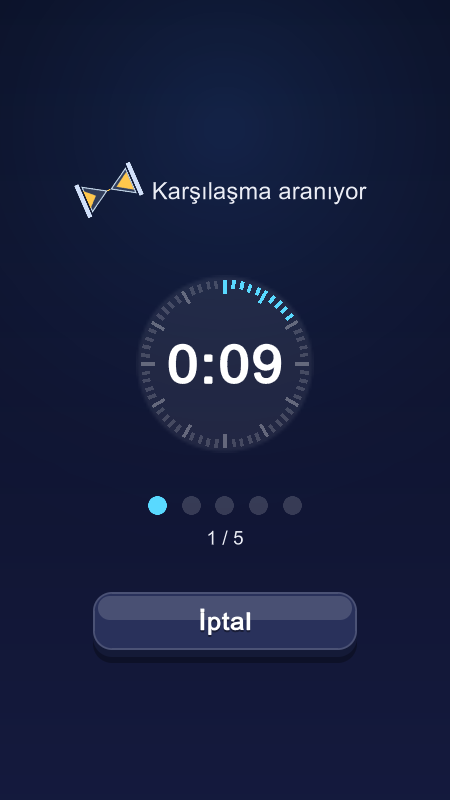
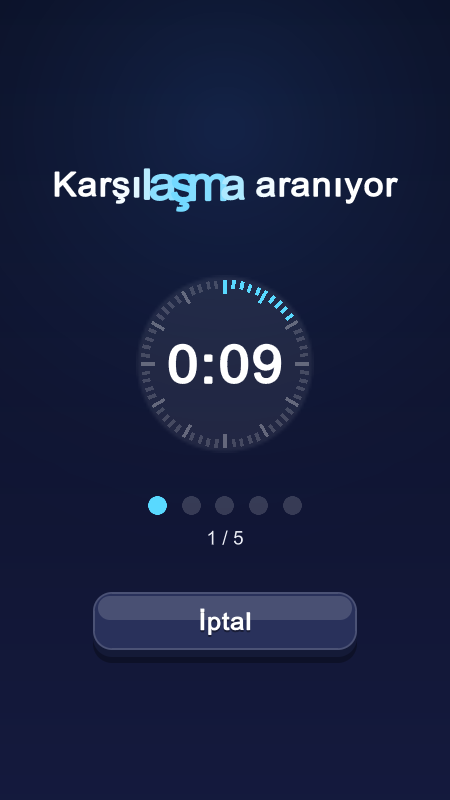
Arama basligi ortada ve dalga animasyonlu (kum saati kaldirildi), sonuc ekraninda suzulen konfeti

Changed region(s): [[0.0933, 0.1875, 0.8711, 0.2812]]

diff --git a/client/Assets/Scripts/Game/OnlineGameController.cs b/client/Assets/Scripts/Game/OnlineGameController.cs
@@ -49,7 +49,7 @@ namespace TextRun.Game
         float searchStartedAt;
         float countdownEndsLocal;
 
-        GUIStyle titleStyle, bigButton, labelStyle, centerStyle, smallStyle, smallCenterStyle, stopwatchStyle, headingStyle, rankStyle;
+        GUIStyle titleStyle, bigButton, labelStyle, centerStyle, smallStyle, smallCenterStyle, stopwatchStyle, headingStyle, rankStyle, searchTitleStyle;
 
         void Start()
         {
@@ -212,6 +212,7 @@ namespace TextRun.Game
 
                 case Phase.Finished:
                     results = s.results ?? new ResultDto[0];
+                    resultsBackdrop.Restart();
                     screen = Page.Results;
                     break;
             }
@@ -292,6 +293,7 @@ namespace TextRun.Game
             results = r.results ?? new ResultDto[0];
             view.SetRacing(false);
             endingEndsLocal = 0f;
+            resultsBackdrop.Restart(); // ekran açılınca konfeti yukarıdan süzülmeye başlar
             screen = Page.Results;
 
             bool onPodium = false;
@@ -411,6 +413,7 @@ namespace TextRun.Game
 
             headingStyle = new GUIStyle(GUI.skin.label) { fontSize = 30, fontStyle = FontStyle.Bold, alignment = TextAnchor.MiddleCenter };
             rankStyle = new GUIStyle(GUI.skin.label) { fontSize = 24, fontStyle = FontStyle.Bold, alignment = TextAnchor.MiddleCenter };
+            searchTitleStyle = new GUIStyle(GUI.skin.label) { fontSize = 28, fontStyle = FontStyle.Bold, alignment = TextAnchor.MiddleCenter, wordWrap = false, clipping = TextClipping.Overflow };
             smallCenterStyle = new GUIStyle(GUI.skin.label) { fontSize = 16, alignment = TextAnchor.MiddleCenter, wordWrap = false };
             stopwatchStyle = new GUIStyle(GUI.skin.label) { fontSize = 44, fontStyle = FontStyle.Bold, alignment = TextAnchor.MiddleCenter, wordWrap = false };
 
@@ -422,6 +425,7 @@ namespace TextRun.Game
             UiKit.SetAllTextColors(smallStyle, text);
             UiKit.SetAllTextColors(smallCenterStyle, text);
             UiKit.SetAllTextColors(stopwatchStyle, Color.white);
+            UiKit.SetAllTextColors(searchTitleStyle, Color.white);
             UiKit.SetAllTextColors(headingStyle, Color.white);
             UiKit.SetAllTextColors(rankStyle, new Color(1f, 0.88f, 0.45f));
         }
@@ -547,16 +551,8 @@ namespace TextRun.Game
             float centerX = width / 2f;
             float centerY = height / 2f - 30f;
 
-            // Başlık: dönen kum saati ve "Karşılaşma aranıyor"
-            string title = T("searching");
-            float titleWidth = centerStyle.CalcSize(new GUIContent(title)).x;
-            const float iconHeight = 54f;
-            float iconWidth = iconHeight * 64f / 96f;
-            float groupWidth = iconWidth + 14f + titleWidth;
-            float groupX = centerX - groupWidth / 2f;
-            float groupY = centerY - 172f;
-            DrawHourglass(new Rect(groupX, groupY, iconWidth, iconHeight));
-            GUI.Label(new Rect(groupX + iconWidth + 14f, groupY, titleWidth + 6f, iconHeight), title, centerStyle);
+            // Başlık: tam ortada; harfleri soldan sağa doğru sırayla büyüyüp küçülür
+            DrawWaveTitle(new Vector2(centerX, centerY - 150f), T("searching"));
 
             DrawStopwatch(new Vector2(centerX, centerY), 74f, Mathf.Max(0, (int)(Time.realtimeSinceStartup - searchStartedAt)));
 
@@ -579,20 +575,44 @@ namespace TextRun.Game
             if (UiKit.SecondaryButton(new Rect(width / 2f - 110f, centerY + 190f, 220f, 54f), T("cancel"), 20)) CancelSearch();
         }
 
-        // Kum saati: her ~1,8 sn'de bir yumuşakça 180° döner (ters çevrilir), sonra bir an durur
-        void DrawHourglass(Rect rect)
+        // Başlık harfleri soldan sağa doğru sırayla büyüyüp küçülür (dalga); büyürken hafif maviye parlar.
+        // Dalga başlığın dışından başlayıp dışında biter, böylece iki dalga arasında kısa bir sakin an olur.
+        void DrawWaveTitle(Vector2 center, string text)
         {
-            const float cycle = 1.8f;
-            float time = Time.realtimeSinceStartup;
-            int flips = (int)(time / cycle);
-            float t = Mathf.Repeat(time, cycle) / cycle;
-            float turn = Mathf.SmoothStep(0f, 1f, Mathf.Clamp01(t / 0.35f)); // döngünün ilk %35'inde döner
-            float angle = flips * 180f + turn * 180f;
+            var widths = new float[text.Length];
+            float total = 0f;
+            for (int i = 0; i < text.Length; i++)
+            {
+                widths[i] = text[i] == ' ' ? searchTitleStyle.fontSize * 0.35f : searchTitleStyle.CalcSize(new GUIContent(text[i].ToString())).x;
+                total += widths[i];
+            }
+
+            const float cycleSeconds = 2.4f;
+            float wavePosition = Mathf.Repeat(Time.realtimeSinceStartup / cycleSeconds, 1f) * (text.Length + 8f) - 4f;
 
             var oldMatrix = GUI.matrix;
-            GUIUtility.RotateAroundPivot(angle, oldMatrix.MultiplyPoint3x4(rect.center));
-            GUI.DrawTexture(rect, Pictograms.Hourglass());
+            var oldColor = GUI.color;
+            float x = center.x - total / 2f;
+
+            for (int i = 0; i < text.Length; i++)
+            {
+                if (text[i] != ' ')
+                {
+                    float distance = i - wavePosition;
+                    float bump = Mathf.Exp(-(distance * distance) / (2f * 1.8f * 1.8f)); // yumuşak çan eğrisi: 0 -> 1 -> 0
+                    float scale = 1f + 0.5f * bump;
+
+                    var rect = new Rect(x, center.y - 24f, widths[i], 48f);
+                    var pivot = rect.center;
+                    GUI.matrix = oldMatrix * Matrix4x4.Translate(pivot) * Matrix4x4.Scale(new Vector3(scale, scale, 1f)) * Matrix4x4.Translate(-pivot);
+                    GUI.color = Color.Lerp(Color.white, new Color(0.45f, 0.85f, 1f), bump);
+                    GUI.Label(rect, text[i].ToString(), searchTitleStyle);
+                }
+                x += widths[i];
+            }
+
             GUI.matrix = oldMatrix;
+            GUI.color = oldColor;
         }
 
         // Kronometre: yuvarlak zemin, çevresinde 60 saniye çizgisi (geçen saniyeler yanar) ve ortada dakika:saniye
@@ -828,6 +848,7 @@ namespace TextRun.Game
                 };
             }
             results = list;
+            resultsBackdrop.Restart();
             screen = Page.Results;
         }
 

diff --git a/client/Assets/Scripts/Game/ResultsBackdrop.cs b/client/Assets/Scripts/Game/ResultsBackdrop.cs
@@ -2,14 +2,22 @@ using UnityEngine;
 
 namespace TextRun.Game
 {
-    // Sonuç ekranının arka planı: koyu degrade, kupanın arkasında açılan ışın demeti ve ışık, süzülmeyen sabit konfetiler
-    // ve ortada büyük bir kupa. Sıraya göre kupa altın (1.), gümüş (2.), bronz (3.) ya da çelik (diğerleri) olur.
-    // Konfeti yalnızca ilk üçe girenlerde vardır. Hepsi sabittir (animasyon yok).
+    // Sonuç ekranının arka planı: koyu degrade, kupanın arkasında açılan ışın demeti ve ışık, ortada büyük bir kupa.
+    // Sıraya göre kupa altın (1.), gümüş (2.), bronz (3.) ya da çelik (diğerleri) olur.
+    // İlk üçe girenlerde ekran açılınca konfetiler yukarıdan aşağı süzülür (bir kez); hepsi ekrandan çıkınca animasyon biter.
     public class ResultsBackdrop
     {
         struct Confetti
         {
-            public float x, y, w, h, angle;
+            public float x;            // yatay başlangıç (ekran oranı)
+            public float w, h;         // boyut
+            public float delay;        // düşmeye başlama gecikmesi (sn)
+            public float speed;        // düşme hızı (arayüz birimi/sn)
+            public float swayAmount;   // yana salınım genliği
+            public float swayFrequency;
+            public float phase;
+            public float angle;        // başlangıç açısı
+            public float spin;         // dönüş hızı (derece/sn)
             public Color color;
         }
 
@@ -22,6 +30,13 @@ namespace TextRun.Game
         Texture2D gradient;
         Texture2D glow;
         Confetti[] confetti;
+        float startedAt = -999f;
+
+        // Sonuç ekranı her açıldığında çağrılır: konfeti yeniden yağmaya başlar
+        public void Restart()
+        {
+            startedAt = Time.realtimeSinceStartup;
+        }
 
         // trophyCenter: kupanın ekran konumu (arayüz birimi), trophySize: kenar uzunluğu
         public void Draw(float width, float height, Vector2 trophyCenter, float trophySize, int rank)
@@ -44,26 +59,41 @@ namespace TextRun.Game
             GUI.color = new Color(accent.r, accent.g, accent.b, 0.30f);
             GUI.DrawTexture(new Rect(trophyCenter.x - glowRadius, trophyCenter.y - glowRadius, glowRadius * 2f, glowRadius * 2f), glow);
 
-            // Konfetiler (ilk üçte)
-            if (rank <= 3)
-            {
-                var matrix = GUI.matrix;
-                foreach (var c in confetti)
-                {
-                    var rect = new Rect(c.x * width, c.y * height, c.w, c.h);
-                    GUI.color = new Color(c.color.r, c.color.g, c.color.b, 0.85f);
-                    GUIUtility.RotateAroundPivot(c.angle, matrix.MultiplyPoint3x4(rect.center)); // pivot, ölçeklenmiş koordinatta verilir
-                    GUI.DrawTexture(rect, Texture2D.whiteTexture);
-                    GUI.matrix = matrix;
-                }
-            }
-
             // Kupanın yer gölgesi ve kupa
             GUI.color = new Color(0f, 0f, 0f, 0.35f);
             GUI.DrawTexture(new Rect(trophyCenter.x - trophySize * 0.38f, trophyCenter.y + trophySize * 0.42f, trophySize * 0.76f, trophySize * 0.12f), glow);
 
             GUI.color = Color.white;
             GUI.DrawTexture(new Rect(trophyCenter.x - trophySize / 2f, trophyCenter.y - trophySize / 2f, trophySize, trophySize), Pictograms.Trophy(tint));
+            GUI.color = old;
+
+            // Süzülen konfetiler (ilk üçte), kupanın ve listenin önünde
+            if (rank <= 3) DrawConfetti(width, height);
+        }
+
+        void DrawConfetti(float width, float height)
+        {
+            float elapsed = Time.realtimeSinceStartup - startedAt;
+            var matrix = GUI.matrix;
+            var old = GUI.color;
+
+            foreach (var c in confetti)
+            {
+                float t = elapsed - c.delay;
+                if (t < 0f) continue;
+
+                float y = -24f + c.speed * t;
+                if (y > height + 24f) continue; // ekrandan çıktı
+
+                float x = c.x * width + Mathf.Sin(t * c.swayFrequency + c.phase) * c.swayAmount;
+                float fadeIn = Mathf.Clamp01(t / 0.25f);
+                var rect = new Rect(x, y, c.w, c.h);
+
+                GUI.color = new Color(c.color.r, c.color.g, c.color.b, 0.9f * fadeIn);
+                GUIUtility.RotateAroundPivot(c.angle + c.spin * t, matrix.MultiplyPoint3x4(rect.center)); // pivot, ölçeklenmiş koordinatta verilir
+                GUI.DrawTexture(rect, Texture2D.whiteTexture);
+                GUI.matrix = matrix;
+            }
             GUI.color = old;
         }
 
@@ -74,18 +104,23 @@ namespace TextRun.Game
             gradient = MakeGradient();
             glow = MakeGlow();
 
-            // Sabit tohum: konfetiler her seferinde aynı yerlerde
+            // Sabit tohum: konfetilerin düşüş düzeni her seferinde aynı
             var rng = new System.Random(11);
-            confetti = new Confetti[42];
+            confetti = new Confetti[56];
             for (int i = 0; i < confetti.Length; i++)
             {
                 confetti[i] = new Confetti
                 {
                     x = (float)rng.NextDouble(),
-                    y = (float)rng.NextDouble() * 0.55f, // üst yarıda, kupanın çevresinde
                     w = 6f + (float)rng.NextDouble() * 8f,
                     h = 3f + (float)rng.NextDouble() * 4f,
+                    delay = (float)rng.NextDouble() * 1.6f,
+                    speed = 110f + (float)rng.NextDouble() * 110f,
+                    swayAmount = 10f + (float)rng.NextDouble() * 26f,
+                    swayFrequency = 1.5f + (float)rng.NextDouble() * 2.5f,
+                    phase = (float)(rng.NextDouble() * Mathf.PI * 2.0),
                     angle = (float)(rng.NextDouble() * 180.0),
+                    spin = (float)(rng.NextDouble() * 360.0 - 180.0),
                     color = ConfettiColors[rng.Next(ConfettiColors.Length)]
                 };
             }

diff --git a/client/Assets/Scripts/Game/Pictograms.cs b/client/Assets/Scripts/Game/Pictograms.cs
@@ -3,7 +3,7 @@ using UnityEngine;
 
 namespace TextRun.Game
 {
-    // Kodla çizilen küçük resimler (dosya gerektirmez): kupa, ışın demeti ve kum saati.
+    // Kodla çizilen küçük resimler (dosya gerektirmez): kupa ve ışın demeti.
     // Şekiller basit geometri formülleriyle tanımlanır; kenarlar 3x3 örnekle yumuşatılır. Her doku bir kez üretilir.
     public static class Pictograms
     {
@@ -11,7 +11,6 @@ namespace TextRun.Game
 
         static readonly Dictionary<TrophyTint, Texture2D> trophies = new Dictionary<TrophyTint, Texture2D>();
         static Texture2D rays;
-        static Texture2D hourglass;
 
         // ---------- Kupa ----------
 
@@ -150,97 +149,6 @@ namespace TextRun.Game
             }
             rays.Apply();
             return rays;
-        }
-
-        // ---------- Kum saati ----------
-
-        // 64x96: üstte ve altta plaka, cam gövde çerçevesi, üstte ve altta kum, ortada ince kum akışı
-        public static Texture2D Hourglass()
-        {
-            if (hourglass != null) return hourglass;
-
-            const int w = 64, h = 96;
-            hourglass = new Texture2D(w, h, TextureFormat.RGBA32, false) { wrapMode = TextureWrapMode.Clamp, filterMode = FilterMode.Bilinear, hideFlags = HideFlags.HideAndDontSave };
-
-            var plate = new Color(0.82f, 0.88f, 0.98f);
-            var glass = new Color(0.85f, 0.93f, 1f);
-            var sand = new Color(1f, 0.78f, 0.30f);
-
-            for (int y = 0; y < h; y++)
-            {
-                for (int x = 0; x < w; x++)
-                {
-                    float r = 0f, g = 0f, b = 0f, a = 0f;
-                    for (int sy = 0; sy < 3; sy++)
-                    {
-                        for (int sx = 0; sx < 3; sx++)
-                        {
-                            if (HourglassColor(x + (sx + 0.5f) / 3f, y + (sy + 0.5f) / 3f, plate, glass, sand, out var c))
-                            {
-                                r += c.r * c.a; g += c.g * c.a; b += c.b * c.a; a += c.a;
-                            }
-                        }
-                    }
-                    hourglass.SetPixel(x, y, a <= 0f ? Color.clear : new Color(r / a, g / a, b / a, a / 9f));
-                }
-            }
-            hourglass.Apply();
-            return hourglass;
-        }
-
-        static readonly Vector2 UpperA = new Vector2(11f, 84f), UpperB = new Vector2(53f, 84f), UpperC = new Vector2(32f, 50f);
-        static readonly Vector2 LowerA = new Vector2(32f, 46f), LowerB = new Vector2(11f, 12f), LowerC = new Vector2(53f, 12f);
-
-        static bool HourglassColor(float x, float y, Color plate, Color glass, Color sand, out Color color)
-        {
-            color = default;
-            var p = new Vector2(x, y);
-
-            // Plakalar
-            if (InRect(x, y, 6f, 58f, 86f, 93f) || InRect(x, y, 6f, 58f, 3f, 10f)) { color = plate; return true; }
-
-            bool inUpper = InTriangle(p, UpperA, UpperB, UpperC);
-            bool inLower = InTriangle(p, LowerA, LowerB, LowerC);
-
-            if (inUpper || inLower)
-            {
-                // Kum: üstte küçük üçgen, altta yığın
-                if (InTriangle(p, new Vector2(18f, 82f), new Vector2(46f, 82f), new Vector2(32f, 60f)) && inUpper) { color = sand; return true; }
-                if (InTriangle(p, new Vector2(18f, 12f), new Vector2(46f, 12f), new Vector2(32f, 27f)) && inLower) { color = sand; return true; }
-
-                // Cam çerçevesi: üçgenin kendisi ile küçültülmüş hali arasındaki bant
-                bool innerUpper = inUpper && InTriangle(p, Shrink(UpperA, UpperB, UpperC, 0.86f, 0), Shrink(UpperA, UpperB, UpperC, 0.86f, 1), Shrink(UpperA, UpperB, UpperC, 0.86f, 2));
-                bool innerLower = inLower && InTriangle(p, Shrink(LowerA, LowerB, LowerC, 0.86f, 0), Shrink(LowerA, LowerB, LowerC, 0.86f, 1), Shrink(LowerA, LowerB, LowerC, 0.86f, 2));
-                if (innerUpper || innerLower) { color = new Color(glass.r, glass.g, glass.b, 0.16f); return true; }
-
-                color = new Color(glass.r, glass.g, glass.b, 0.95f);
-                return true;
-            }
-
-            // Ortada ince kum akışı
-            if (InRect(x, y, 31f, 33f, 27f, 50f)) { color = sand; return true; }
-            return false;
-        }
-
-        // Üçgeni ağırlık merkezine doğru küçültür
-        static Vector2 Shrink(Vector2 a, Vector2 b, Vector2 c, float factor, int index)
-        {
-            Vector2 center = (a + b + c) / 3f;
-            Vector2 v = index == 0 ? a : index == 1 ? b : c;
-            return center + (v - center) * factor;
-        }
-
-        static bool InTriangle(Vector2 p, Vector2 a, Vector2 b, Vector2 c)
-        {
-            float d1 = Sign(p, a, b), d2 = Sign(p, b, c), d3 = Sign(p, c, a);
-            bool hasNegative = d1 < 0f || d2 < 0f || d3 < 0f;
-            bool hasPositive = d1 > 0f || d2 > 0f || d3 > 0f;
-            return !(hasNegative && hasPositive);
-        }
-
-        static float Sign(Vector2 p, Vector2 a, Vector2 b)
-        {
-            return (p.x - b.x) * (a.y - b.y) - (a.x - b.x) * (p.y - b.y);
         }
     }
 }

diff --git a/client/Assets/Scripts/Game/DevHarness.cs b/client/Assets/Scripts/Game/DevHarness.cs
@@ -98,6 +98,8 @@ namespace TextRun.Game
             controller.DevShowFakeResults(1);
             yield return new WaitForSeconds(0.6f);
             yield return Shot("6-results-first");
+            yield return new WaitForSeconds(1.2f);
+            yield return Shot("6b-results-first-later"); // konfeti daha aşağıda olmalı
             controller.DevShowFakeResults(4);
             yield return new WaitForSeconds(0.6f);
             yield return Shot("7-results-fourth");
